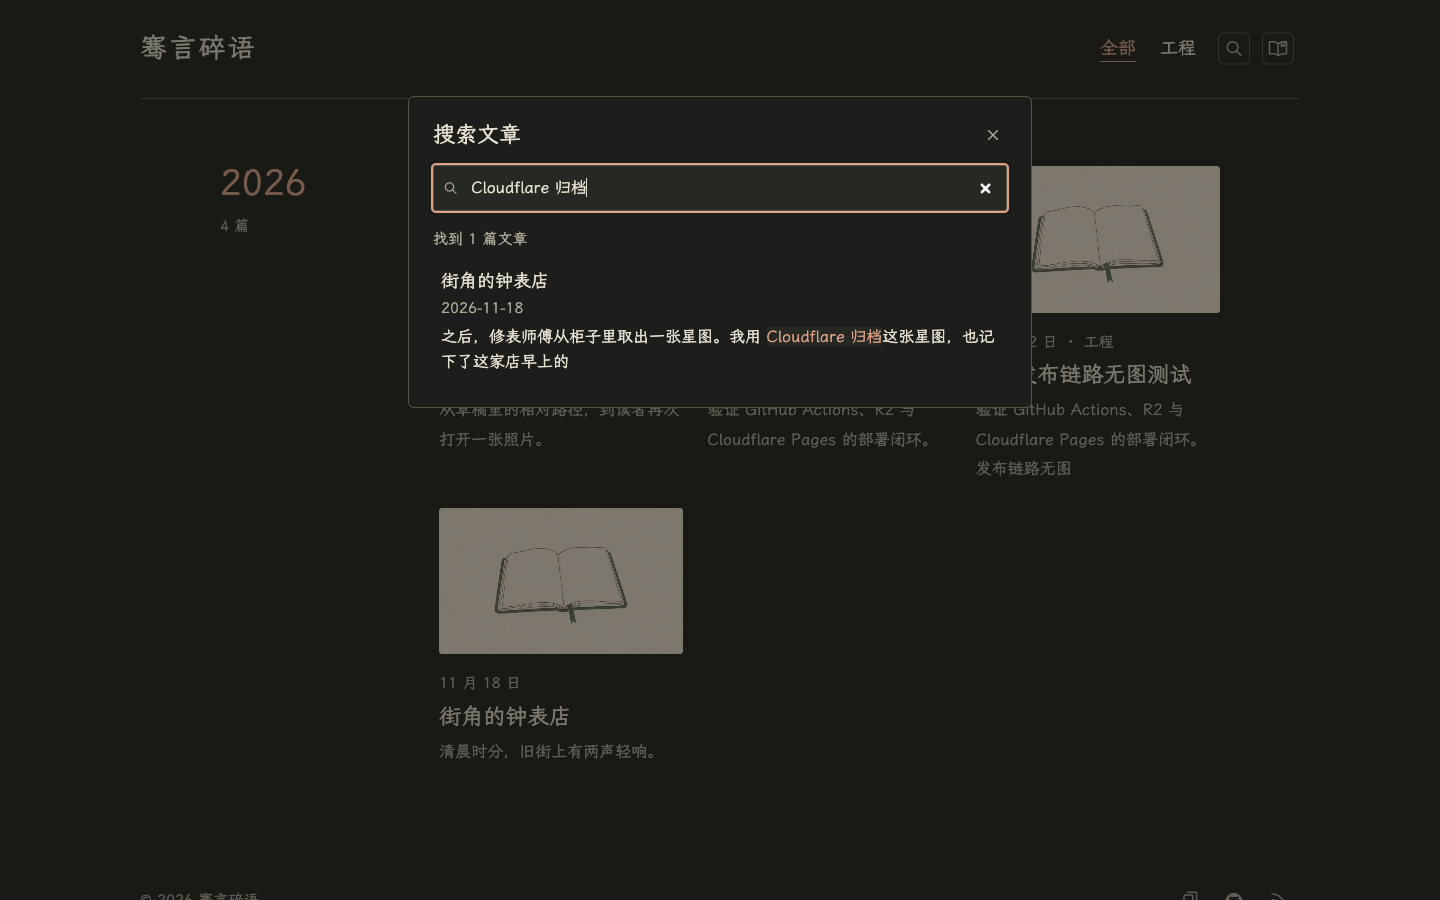
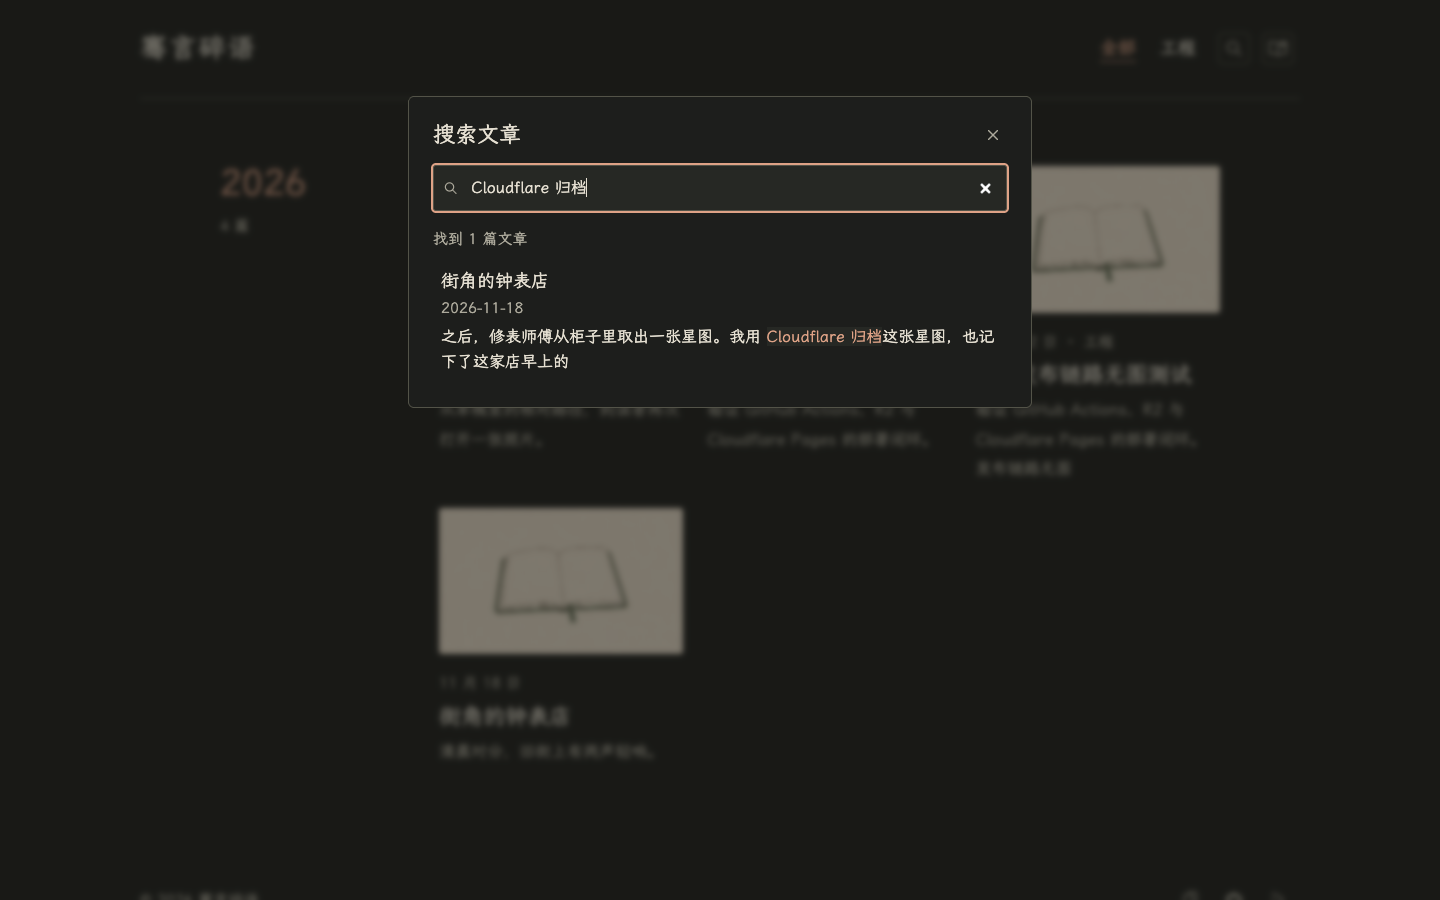
style: soften the search dialog backdrop

diff --git a/docs/m5.1/README.md b/docs/m5.1/README.md
@@ -5,7 +5,7 @@
 ## 实现决策
 
 - 锁定 Pagefind 1.6.0。npm 包使用支持简体中文分词的 Extended 版本，浏览器端使用 Pagefind 的查询分词与 Worker。 [发布说明](https://github.com/Pagefind/pagefind/releases/tag/v1.6.0) · [安装说明](https://pagefind.app/docs/installation/)
-- Component UI 提供 Web Components、键盘导航及模板。本站只需要一套搜索弹窗，因此使用 Pagefind JavaScript API、原生 `<dialog>` 和 Astro 客户端脚本。弹窗沿用 M4 的主题、霞鹜文楷 Regular、边框、间距、焦点及动效变量。 [Component UI](https://pagefind.app/docs/search-ui/) · [JavaScript API](https://pagefind.app/docs/api/)
+- Component UI 提供 Web Components、键盘导航及模板。本站只需要一套搜索弹窗，因此使用 Pagefind JavaScript API、原生 `<dialog>` 和 Astro 客户端脚本。弹窗沿用 M4 的主题、霞鹜文楷 Regular、边框、间距、焦点及动效变量。遮罩以 3 px 高斯模糊柔化背景内容。 [Component UI](https://pagefind.app/docs/search-ui/) · [JavaScript API](https://pagefind.app/docs/api/)
 - Astro 静态构建结束后从 `posts/*/index.html` 生成 `dist/pagefind/`。路由只生成已发布文章，`data-pagefind-body` 限定文章内容，目录和标签组从正文索引中剔除。日期和可选分类从文章元数据读取。Cloudflare Pages 继续部署整个 `dist`，沿用现有工作流。 [索引范围](https://pagefind.app/docs/indexing/) · [元数据](https://pagefind.app/docs/metadata/)
 - 标题使用 Pagefind 默认的 H1 权重 7 和标题元数据加成，摘要权重为 2，正文段落为 1，正文小节标题保留 Pagefind 的默认权重。回归测试验证同一个词出现在另一篇正文时，标题命中的文章在前。 [权重](https://pagefind.app/docs/weighting/) · [排序](https://pagefind.app/docs/ranking/)
 - 首次打开才会初始化 Pagefind。同一页面的后续打开复用初始化结果。查询防抖 150 ms，每次请求只读取 10 条结果片段，返回的片段和错误都受当前查询版本约束。
